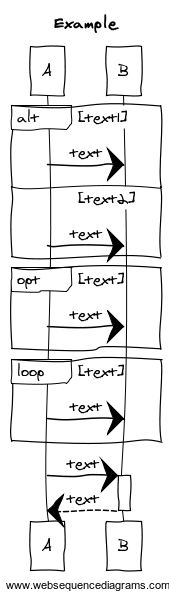
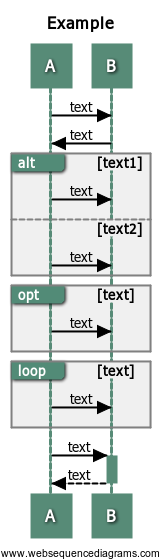
No idea whether this is still working

diff --git a/diagrams.js b/diagrams.js
@@ -1,39 +1,64 @@
-var wsd 	= require('websequencediagrams'),
-fs 			= require('fs');
-async 	= require('async');
-config  = require('./config');
+/* jshint node: true, esnext: true*/
+'use strict';
 
-var createDiagram = function(file, callback) {
-	
-	async.waterfall([
-
-		function readDiagramSources(callback) {
-			
-			fs.readFile('data/'+file, 'utf-8', callback);
-		},
-
-		function requestDiagrams(diagSrc, callback) {
-			wsd.diagram(diagSrc, config.style, config.format, callback);
-		}, 
-
-		function createFiles(buf, type) {
-			fs.writeFile('data/'+file.slice(0, file.length - '.wsd'.length)+'.png', buf);
-		}], 
-
-		function(err) {
-			if(err) throw err;
-			callback();
-		});	
+var Promise   = require('bluebird'),
+program       = require('commander'),
+path          = require('path'),
+wsd           = Promise.promisifyAll(require('websequencediagrams')),
+fs            = Promise.promisifyAll(require('fs')),
+config        = require('./config'),
+output = {
+  'style':  { 'user':'', 'default': 'earth', 'all': ['earth', 'napkin'] },
+  'format': { 'user':'', 'default': 'png', 'all': ['png'] },
 };
 
-async.each(fs.readdirSync('data'), function(file, callback){
-	fileType = file.slice( (file.length - 'wsd'.length), file.length); 
-	if(fileType !== 'wsd') {
-		console.log('Ignoring file: '+file);
-	} else {
-		console.log('creating diagram for: '+file);
-		createDiagram(file, callback);
-	}
+
+let DEBUG = true;
+let nr = 1 ; 
+
+var createDiagram = Promise.coroutine(function* createDiagram(file) {
+  try {
+    let content = yield fs.readFileAsync('data/'+file, 'utf-8');
+    let buf = yield wsd.diagramAsync(content, config.style, config.format);
+    console.log(buf);
+    yield fs.writeFileAsync('data/'+file.slice(0, file.length - '.wsd'.length)+'.png', buf[0]);
+  } catch(err) {
+    console.log(err);
+  }
 });
+
+var sourceFilesInFolder = Promise.coroutine(function* sourceFilesInFolder(folder) {
+    let files = yield fs.readdirAsync(folder);
+    files.map(function(file) {
+      if(path.extname(file) === 'wsd') return file;
+    });
+});
+
+Promise.coroutine(function* run() {
+  program
+    .version('0.0.1')
+    .option('-od --output-dir', 'select specific output directory')
+    .option('-s --style', 'select a style for the diagram. Available styles are: napkin, earth. Default: earth')
+    .option('-f --format', 'select a file format for the output image. Possible file types are: png. Default: png');
+
+  program.parse(process.argv);
+
+  if(program.args.length === 0) {
+    run();
+  } else {
+    output.style.user = (program.args.style)? program.args.style: output.style.default;
+    output.format.user = (program.args.format)? program.args.format: output.format.default;
+  }
+
+  let folder = 'data/';
+  let files = yield fs.readFileAsync(folder);
+  files.map(function(file) {
+    if(path.extname(file) === 'wsd') return file;
+  });
+
+})();
+
+
+
 
 

diff --git a/config.js b/config.js
@@ -1,4 +1,4 @@
 module.exports = {
-	style : 'napkin', //other: 
+	style : 'earth', //'napkin', other: napkin, earth
 	format : 'png',
 };
